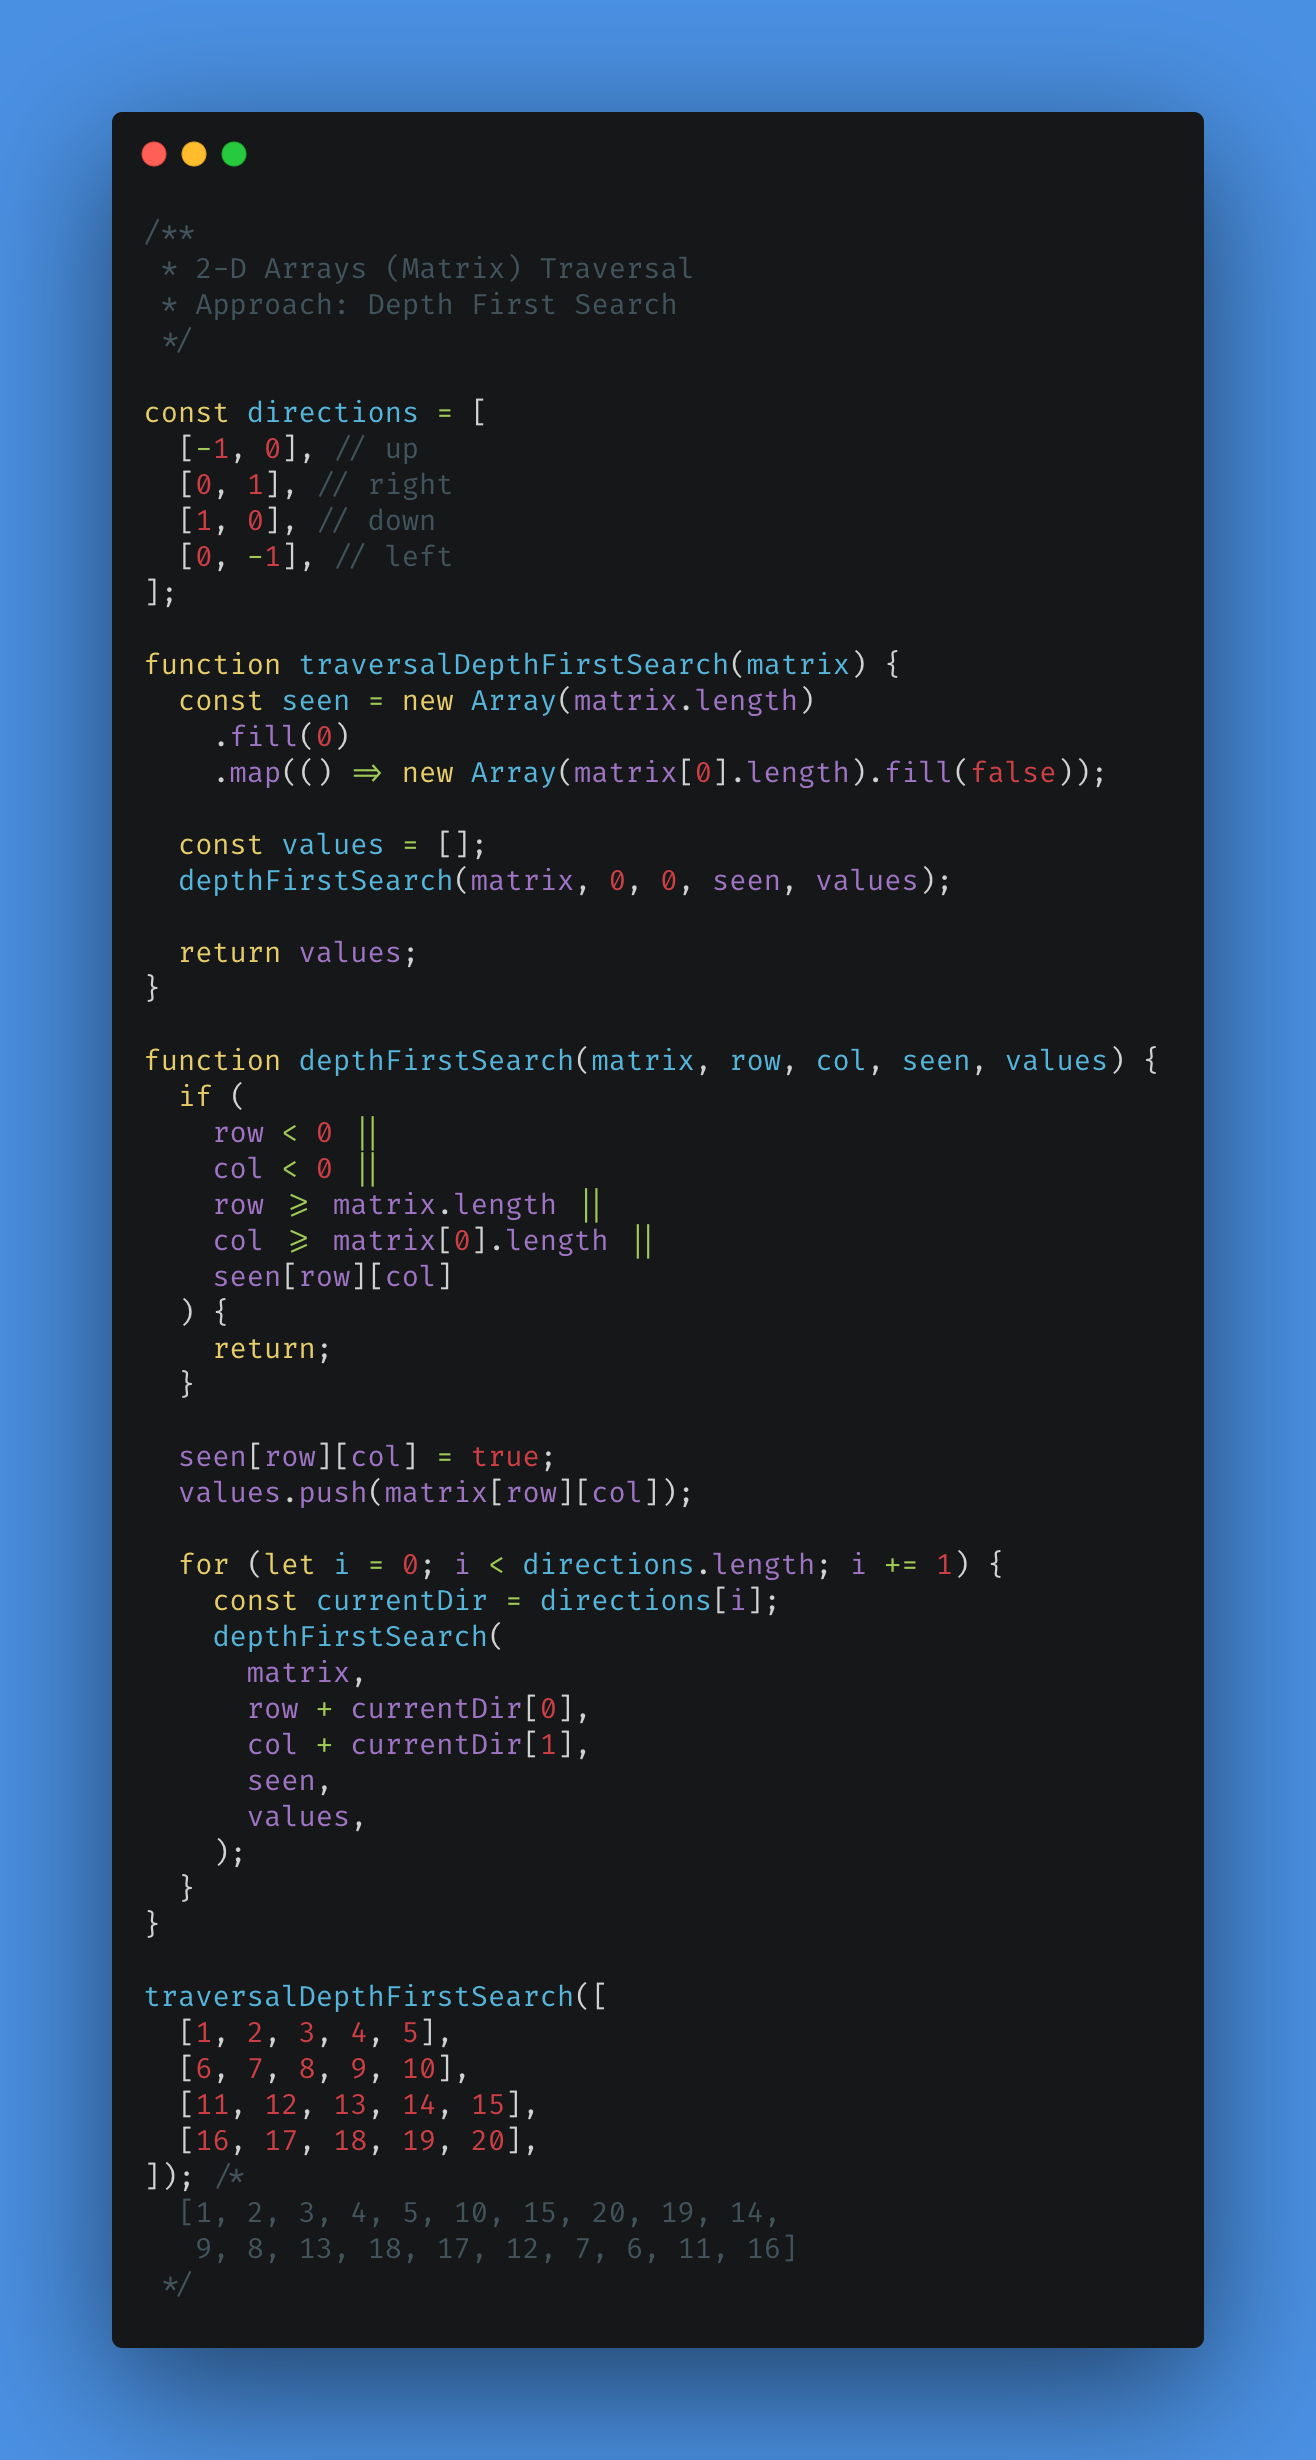
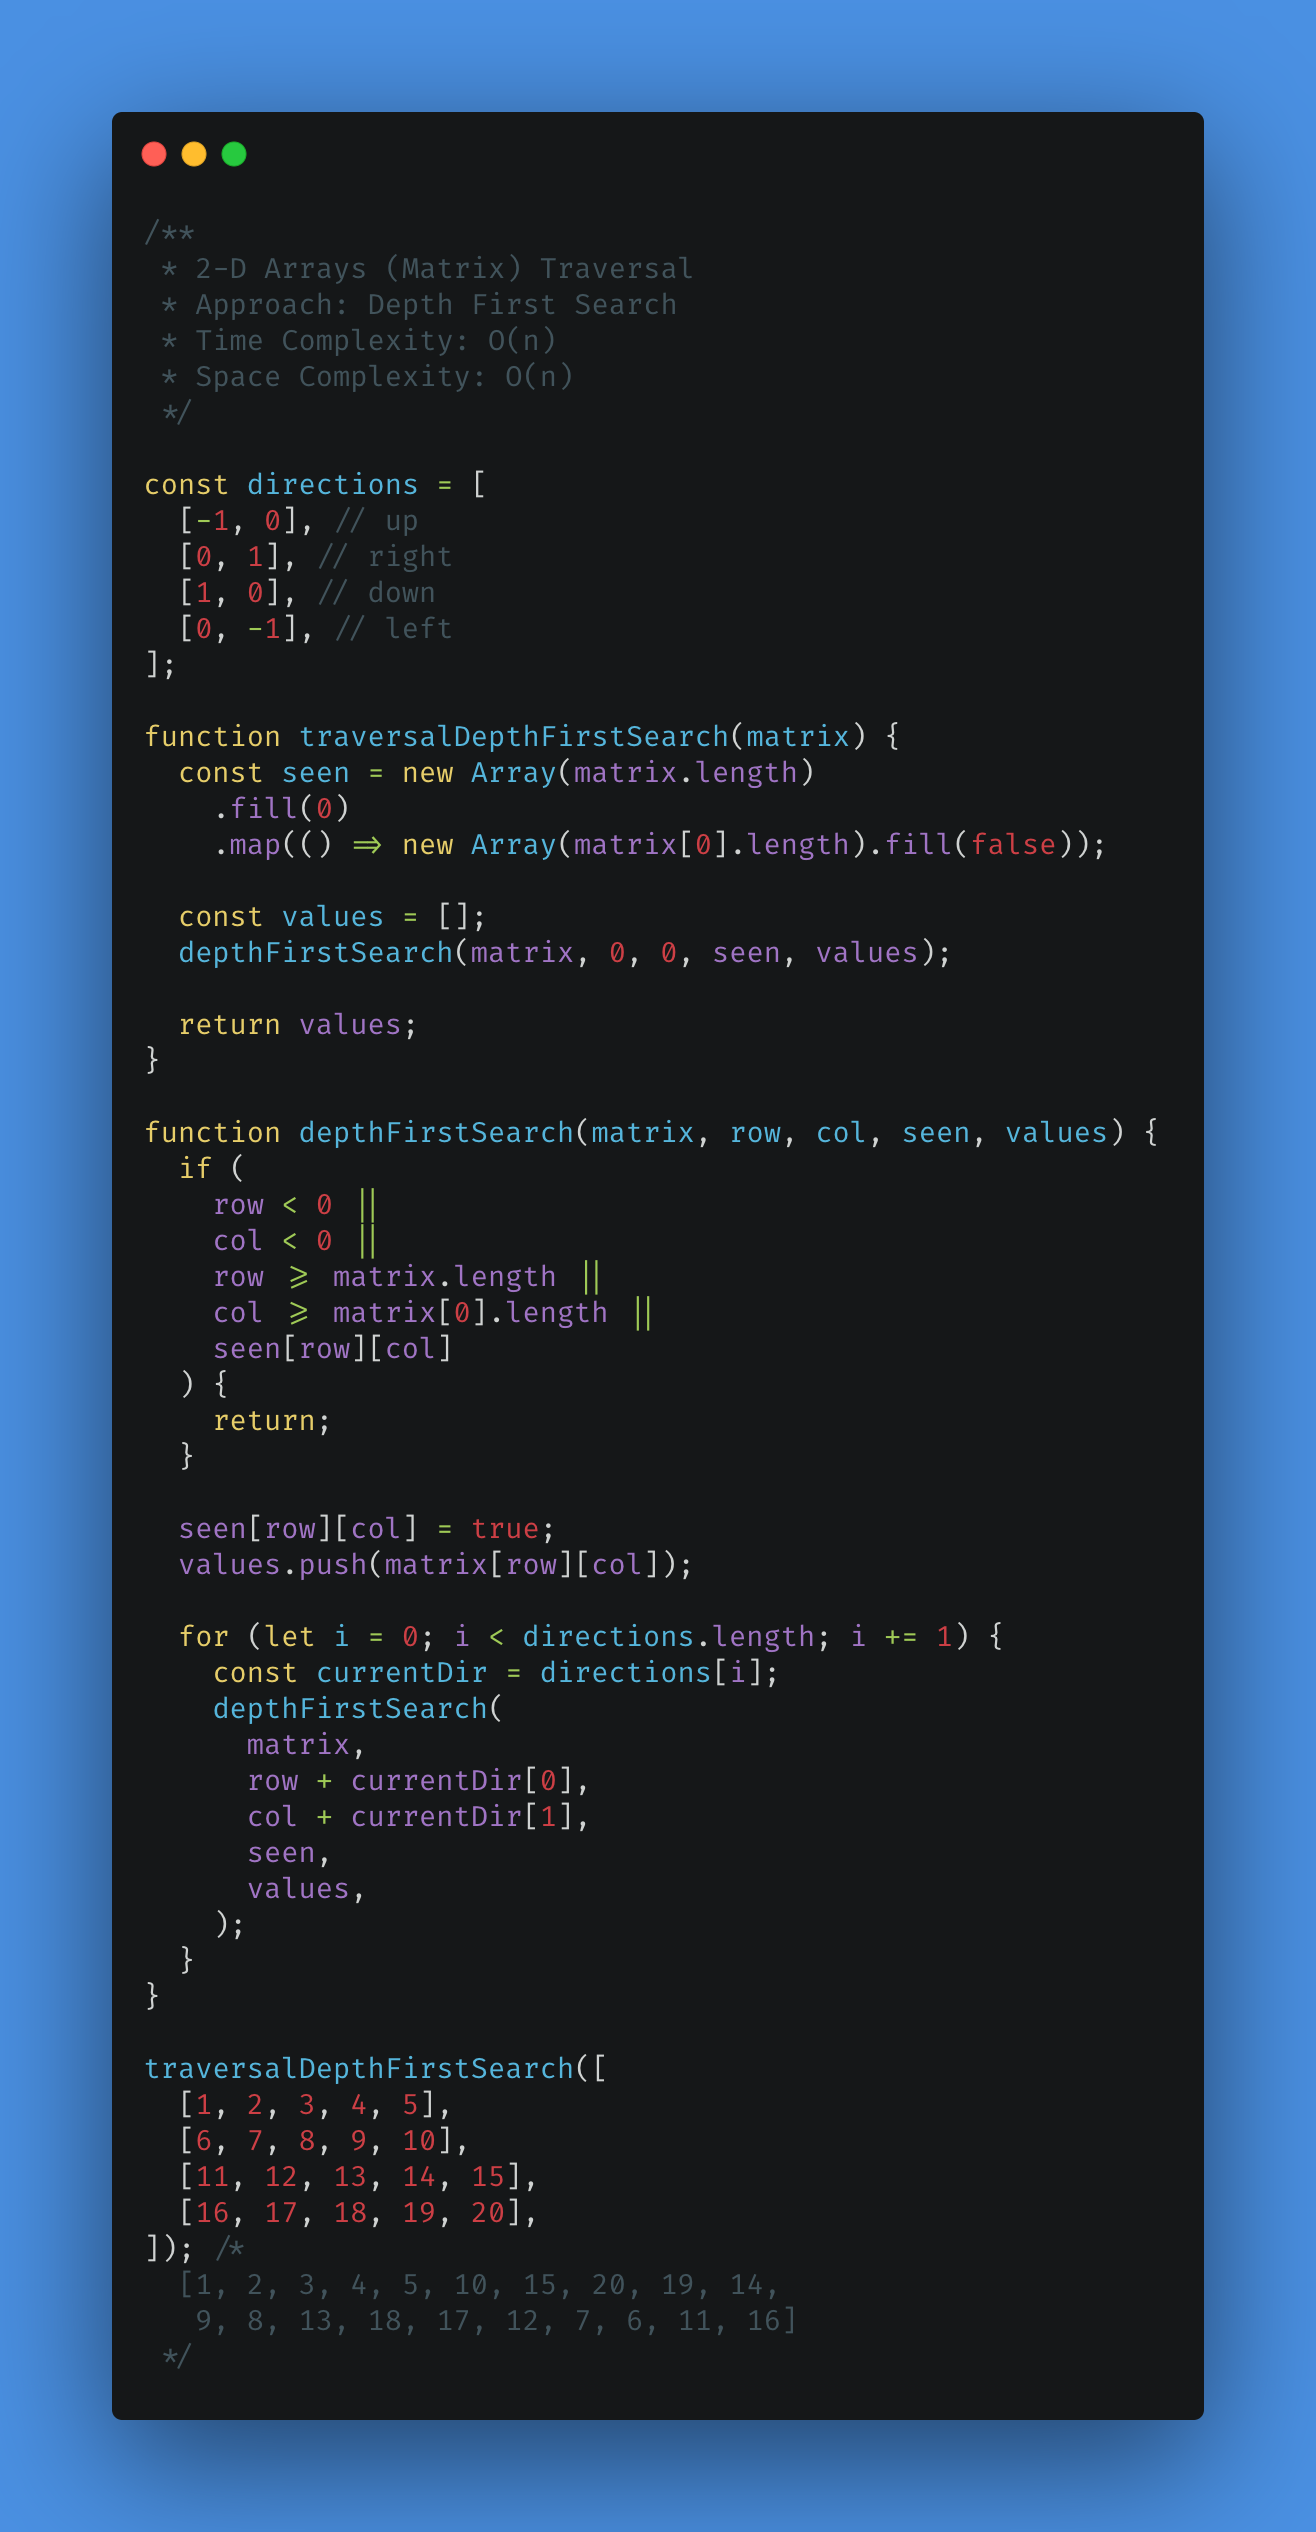
Add code comments on efficiency

diff --git a/002-data-structures/008-2d-arrays/002.js b/002-data-structures/008-2d-arrays/002.js
@@ -1,6 +1,8 @@
 /**
  * 2-D Arrays (Matrix) Traversal
  * Approach: Breadth First Search
+ * Time Complexity: O(n)
+ * Space Complexity: O(n)
  */
 
 const directions = [

diff --git a/002-data-structures/008-2d-arrays/carbon/002.js b/002-data-structures/008-2d-arrays/carbon/002.js
@@ -1,6 +1,8 @@
 /**
  * 2-D Arrays (Matrix) Traversal
  * Approach: Breadth First Search
+ * Time Complexity: O(n)
+ * Space Complexity: O(n)
  */
 
 const directions = [

diff --git a/002-data-structures/008-2d-arrays/001.js b/002-data-structures/008-2d-arrays/001.js
@@ -1,6 +1,8 @@
 /**
  * 2-D Arrays (Matrix) Traversal
  * Approach: Depth First Search
+ * Time Complexity: O(n)
+ * Space Complexity: O(n)
  */
 
 const directions = [

diff --git a/002-data-structures/008-2d-arrays/carbon/001.js b/002-data-structures/008-2d-arrays/carbon/001.js
@@ -1,6 +1,8 @@
 /**
  * 2-D Arrays (Matrix) Traversal
  * Approach: Depth First Search
+ * Time Complexity: O(n)
+ * Space Complexity: O(n)
  */
 
 const directions = [
